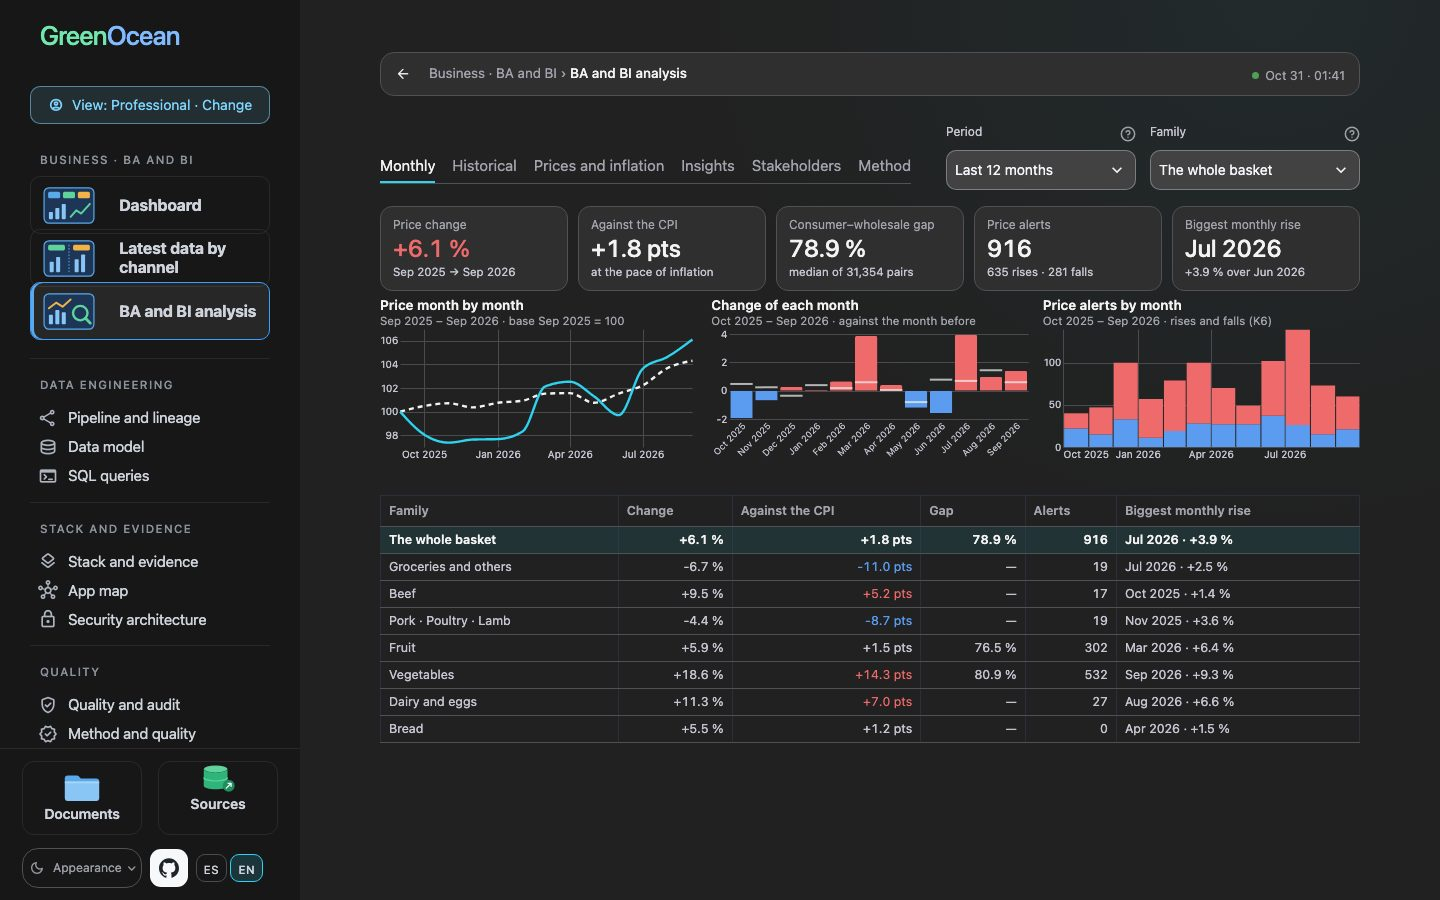
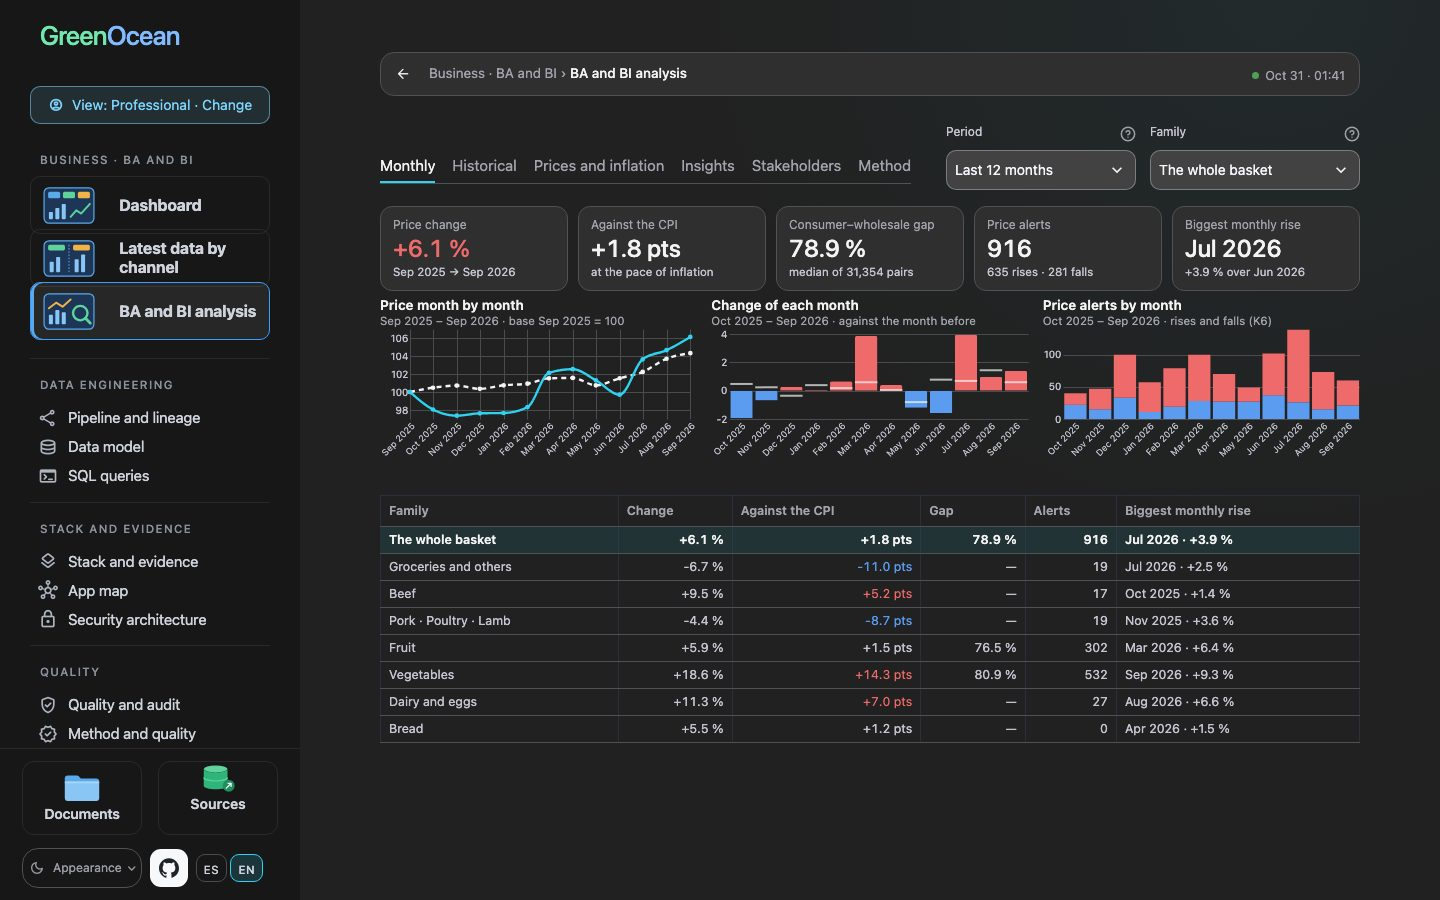
fix(analisis): cada mes de un período tiene su punto y su etiqueta en el eje (D-457)
«Precio mes a mes» dibujaba un punto por mes, pero Vega rotulaba uno de
cada tres meses. Ahora los tres gráficos de «Mensual» nombran cada mes
con su año, y el precio marca cada mes con un punto. El borde del eje
va en hora local, como los datos: escrito como texto se leía en UTC, el
día anterior en Chile, y el último mes quedaba sin etiqueta.

Changed region(s): [[0.7188, 0.3733, 0.9688, 0.5289], [0.25, 0.3733, 0.5, 0.5289]]

diff --git a/bi/ba_trends.py b/bi/ba_trends.py
@@ -166,12 +166,19 @@ def add_month_key(frame: pd.DataFrame) -> pd.DataFrame:
     return frame.assign(month_key=stamp.dt.year * 100 + stamp.dt.month)
 
 
-def month_domain(start: tuple[int, int], end: tuple[int, int], counted: bool = False) -> list[str]:
-    """The time axis of a chart: the whole period, so every chart starts at its start month even where it has no data
-    (no alert can be raised in the first 12 weeks of the history). counted: from the first month whose weeks count."""
-    first = first_counted(start, end) if counted else start
-    last = next_month(end) if counted else end  # bars fill their month, so the axis runs to the end of the last one
-    return [f"{first[0]}-{first[1]:02d}-01", f"{last[0]}-{last[1]:02d}-01"]
+def months_between(first: tuple[int, int], last: tuple[int, int]) -> list[tuple[int, int]]:
+    """Every month from first to last, both included."""
+    months = [first]
+    while months[-1] < last:
+        months.append(next_month(months[-1]))
+    return months
+
+
+def month_domain(start: tuple[int, int], end: tuple[int, int]) -> list[Any]:
+    """The time axis of the price: the whole period, from its start month, even where it has no data. Given in local
+    time, like the data: a date written as text («2026-09-01») is read as midnight UTC, the day before in Chile, and
+    the last month fell outside the axis without its label (D-457)."""
+    return [alt.DateTime(year=year, month=month, date=1) for year, month in (start, end)]
 
 
 def within(frame: pd.DataFrame, start: tuple[int, int], end: tuple[int, int], family: str) -> pd.DataFrame:
@@ -209,15 +216,12 @@ def monthly_changes(rows: pd.DataFrame, family: str, start: tuple[int, int], end
     """The change of each month of a period against the month before, for the family and for the food IPC, in %. The
     months are those after the start, so chained together they give the change of the whole period; a month without
     an index stays empty, never filled."""
-    months = [start]
-    while months[-1] < end:
-        months.append(next_month(months[-1]))
     key = rows["year"] * 100 + rows["month"]
     panel = rows[
         rows["product_group"].isin([family, IPC]) & key.between(start[0] * 100 + start[1], end[0] * 100 + end[1])
     ]
     wide = panel.pivot_table(index=["year", "month"], columns="product_group", values="index")
-    wide = wide.reindex(pd.MultiIndex.from_tuples(months, names=["year", "month"]))
+    wide = wide.reindex(pd.MultiIndex.from_tuples(months_between(start, end), names=["year", "month"]))
     changed = (wide / wide.shift(1) - 1).mul(100).iloc[1:]
     result = pd.DataFrame(
         {
@@ -675,6 +679,16 @@ def sized(chart: Any, width: Any, height: int, mode: str) -> Any:
     return charts.apply_chart_style(chart.properties(width=width, height=height), mode)
 
 
+def label_size(height: int, small: int = 10) -> int:
+    """The letters of an axis: larger in the enlarged chart."""
+    return small if height < 200 else small + 2
+
+
+def month_axis(height: int, **extra: Any) -> Any:
+    """An axis with every month of the period named with its year, «oct 2025», slanted so that none is left out."""
+    return alt.Axis(labelAngle=-45, labelFontSize=label_size(height, 9), labelOverlap=False, **extra)
+
+
 def trend_chart(
     rows: pd.DataFrame,
     family: str,
@@ -698,31 +712,32 @@ def trend_chart(
     )
     color = inflation_view.FAMILY_COLORS.get(family, palette["accent"])
     several_years = end[0] - start[0] > 2
-    chart = (
-        alt.Chart(panel)
-        .mark_line(interpolate="monotone", strokeWidth=2.4)
-        .encode(
-            x=alt.X(
-                "month_start:T",
-                title=None,
-                scale=alt.Scale(domain=month_domain(start, end)),
-                axis=alt.Axis(format="%Y" if several_years else "%b %Y", tickCount=6, labelFontSize=10),
+    if several_years:
+        line = alt.Chart(panel).mark_line(interpolate="monotone", strokeWidth=2.4)
+        axis = alt.Axis(format="%Y", tickCount={"interval": "year", "step": 1}, labelFontSize=label_size(height))
+    else:  # D-457: each month is a point, and each point has its month on the axis
+        dot = alt.OverlayMarkDef(filled=True, size=22 if height < 200 else 40)
+        line = alt.Chart(panel).mark_line(interpolate="monotone", strokeWidth=2.4, point=dot)
+        axis = month_axis(height, format="%b %Y", tickCount={"interval": "month", "step": 1})
+    chart = line.encode(
+        x=alt.X("month_start:T", title=None, scale=alt.Scale(domain=month_domain(start, end)), axis=axis),
+        y=alt.Y(
+            "value:Q",
+            title=None,
+            scale=alt.Scale(zero=False),
+            axis=alt.Axis(labelFontSize=label_size(height), tickCount=4),
+        ),
+        color=alt.Color("serie:N", scale=alt.Scale(domain=names, range=[color, palette["strong_text"]]), legend=None),
+        strokeDash=alt.StrokeDash("serie:N", scale=alt.Scale(domain=names, range=[[1, 0], [5, 4]]), legend=None),
+        tooltip=[
+            alt.Tooltip("serie:N", title=say("Serie", "Series")),
+            alt.Tooltip("month_start:T", title=say("Mes", "Month"), format="%b %Y"),
+            alt.Tooltip(
+                "value:Q",
+                title=say(f"Índice ({month_label(start)} = 100)", f"Index ({month_label(start)} = 100)"),
+                format=",.1f",
             ),
-            y=alt.Y("value:Q", title=None, scale=alt.Scale(zero=False), axis=alt.Axis(labelFontSize=10, tickCount=4)),
-            color=alt.Color(
-                "serie:N", scale=alt.Scale(domain=names, range=[color, palette["strong_text"]]), legend=None
-            ),
-            strokeDash=alt.StrokeDash("serie:N", scale=alt.Scale(domain=names, range=[[1, 0], [5, 4]]), legend=None),
-            tooltip=[
-                alt.Tooltip("serie:N", title=say("Serie", "Series")),
-                alt.Tooltip("month_start:T", title=say("Mes", "Month"), format="%b %Y"),
-                alt.Tooltip(
-                    "value:Q",
-                    title=say(f"Índice ({month_label(start)} = 100)", f"Index ({month_label(start)} = 100)"),
-                    format=",.1f",
-                ),
-            ],
-        )
+        ],
     )
     return sized(chart, width, height, mode)
 
@@ -749,8 +764,8 @@ def months_chart(months: pd.DataFrame, mode: str, width: Any = "container", heig
         alt.Chart(frame)
         .mark_bar(cornerRadiusTopLeft=2, cornerRadiusTopRight=2)
         .encode(
-            x=alt.X("mes:N", sort=order, title=None, axis=alt.Axis(labelAngle=-45, labelFontSize=9)),
-            y=alt.Y("change:Q", title=None, axis=alt.Axis(labelFontSize=10, tickCount=4)),
+            x=alt.X("mes:N", sort=order, title=None, axis=month_axis(height)),
+            y=alt.Y("change:Q", title=None, axis=alt.Axis(labelFontSize=label_size(height), tickCount=4)),
             color=alt.Color(
                 "tone:N", scale=alt.Scale(domain=[rose, fell], range=[palette["rise"], palette["fall"]]), legend=None
             ),
@@ -773,19 +788,21 @@ def alerts_chart(
     width: Any = "container",
     height: int = 150,
 ) -> Any:
-    """The K6 alerts of each month, rises over falls, on the whole period's axis."""
+    """The K6 alerts of each month, rises over falls. The axis names every month of the period, also those without an
+    alert: no alert can be raised in the first 12 weeks of the history, so 2022 starts with three empty months."""
     palette = charts.get_palette(mode)
     rises, falls = say("Subidas", "Rises"), say("Bajadas", "Falls")
+    order = [month_label(pair) for pair in months_between(first_counted(start, end), end)]
     if alert_rows.empty:
-        frame = pd.DataFrame(columns=["month_start", "kind", "alerts"])
+        frame = pd.DataFrame(columns=["mes", "kind", "alerts"])
     else:
-        stamp = pd.to_datetime(alert_rows["week_start"])
+        keys = alert_rows["month_key"] if "month_key" in alert_rows.columns else add_month_key(alert_rows)["month_key"]
         frame = (
             alert_rows.assign(
-                month_start=stamp.dt.to_period("M").dt.to_timestamp(),
+                mes=[month_label((int(key) // 100, int(key) % 100)) for key in keys],
                 kind=[rises if value > 0 else falls for value in alert_rows["variation"]],
             )
-            .groupby(["month_start", "kind"], as_index=False)
+            .groupby(["mes", "kind"], as_index=False)
             .size()
             .rename(columns={"size": "alerts"})
         )
@@ -793,19 +810,13 @@ def alerts_chart(
         alt.Chart(frame)
         .mark_bar()
         .encode(
-            x=alt.X(
-                "month_start:T",
-                timeUnit="yearmonth",
-                title=None,
-                scale=alt.Scale(domain=month_domain(start, end, counted=True)),
-                axis=alt.Axis(format="%b %Y", tickCount=6, labelFontSize=10),
-            ),
-            y=alt.Y("alerts:Q", title=None, stack="zero", axis=alt.Axis(labelFontSize=10, tickCount=4)),
+            x=alt.X("mes:N", title=None, scale=alt.Scale(domain=order), axis=month_axis(height)),
+            y=alt.Y("alerts:Q", title=None, stack="zero", axis=alt.Axis(labelFontSize=label_size(height), tickCount=4)),
             color=alt.Color(
                 "kind:N", scale=alt.Scale(domain=[rises, falls], range=[palette["rise"], palette["fall"]]), legend=None
             ),
             tooltip=[
-                alt.Tooltip("month_start:T", title=say("Mes", "Month"), format="%b %Y"),
+                alt.Tooltip("mes:N", title=say("Mes", "Month")),
                 alt.Tooltip("kind:N", title=say("Tipo", "Kind")),
                 alt.Tooltip("alerts:Q", title=say("Alertas", "Alerts")),
             ],
@@ -831,8 +842,8 @@ def years_chart(years: pd.DataFrame, mode: str, width: Any = "container", height
         alt.Chart(frame)
         .mark_bar(cornerRadiusTopLeft=3, cornerRadiusTopRight=3)
         .encode(
-            x=alt.X("year:N", title=None, axis=alt.Axis(labelAngle=0, labelFontSize=10)),
-            y=alt.Y("change:Q", title=None, axis=alt.Axis(labelFontSize=10, tickCount=4)),
+            x=alt.X("year:N", title=None, axis=alt.Axis(labelAngle=0, labelFontSize=label_size(height))),
+            y=alt.Y("change:Q", title=None, axis=alt.Axis(labelFontSize=label_size(height), tickCount=4)),
             color=alt.Color(
                 "tone:N", scale=alt.Scale(domain=[rose, fell], range=[palette["rise"], palette["fall"]]), legend=None
             ),
@@ -860,12 +871,14 @@ def season_chart(profile: pd.DataFrame, mode: str, width: Any = "container", hei
         alt.Chart(frame)
         .mark_bar(cornerRadiusTopLeft=3, cornerRadiusTopRight=3)
         .encode(
-            x=alt.X("mes:N", sort=order, title=None, axis=alt.Axis(labelAngle=0, labelFontSize=10)),
+            x=alt.X("mes:N", sort=order, title=None, axis=alt.Axis(labelAngle=0, labelFontSize=label_size(height))),
             y=alt.Y(
                 "change:Q",
                 title=None,
                 axis=alt.Axis(
-                    labelFontSize=10, tickCount=4, labelExpr="datum.value > 0 ? '+' + datum.label : datum.label"
+                    labelFontSize=label_size(height),
+                    tickCount=4,
+                    labelExpr="datum.value > 0 ? '+' + datum.label : datum.label",
                 ),
             ),
             color=alt.Color(

diff --git a/tests/test_ba_trends.py b/tests/test_ba_trends.py
@@ -200,15 +200,39 @@ def test_d457_every_card_and_column_explains_itself_on_hover_with_the_definition
 
 def test_d456_every_time_chart_starts_at_the_start_of_its_period():
     # The first alert can only come 12 weeks into the history (K6), so the alerts chart used to start its axis in
-    # 2023 although 2022 had alerts; the axis is now the whole period, bars filling their month.
-    assert ba_trends.month_domain((2022, 1), (2026, 9)) == ["2022-01-01", "2026-09-01"]
-    assert ba_trends.month_domain((2022, 1), (2026, 9), counted=True) == ["2022-01-01", "2026-10-01"]
-    assert ba_trends.month_domain((2025, 9), (2026, 9), counted=True) == ["2025-10-01", "2026-10-01"]
-    assert ba_trends.month_domain((2024, 12), (2025, 12), counted=True) == ["2025-01-01", "2026-01-01"]
+    # 2023 although 2022 had alerts; the axis is now the whole period, also its months without an alert.
+    assert [day.to_dict() for day in ba_trends.month_domain((2022, 1), (2026, 9))] == [
+        {"year": 2022, "month": 1, "date": 1},
+        {"year": 2026, "month": 9, "date": 1},
+    ]  # local time, like the data: a text date is midnight UTC, the day before in Chile (D-457)
+    assert ba_trends.months_between((2025, 11), (2026, 2)) == [(2025, 11), (2025, 12), (2026, 1), (2026, 2)]
     frame = pd.DataFrame({"week_start": ["2022-04-04"], "variation": [0.2]})
-    spec = ba_trends.alerts_chart(frame, (2022, 1), (2026, 9), "Vantablack").to_dict()
-    assert spec["encoding"]["x"]["scale"]["domain"] == ["2022-01-01", "2026-10-01"]
-    assert spec["encoding"]["x"]["timeUnit"] == "yearmonth"
+    spec = ba_trends.alerts_chart(frame, (2022, 1), (2022, 12), "Vantablack").to_dict()
+    assert spec["encoding"]["x"]["scale"]["domain"] == [f"{month} 2022" for month in weeks.MONTHS]
+    last_year = ba_trends.alerts_chart(frame.iloc[:0], (2025, 9), (2026, 9), "Vantablack").to_dict()
+    assert (
+        last_year["encoding"]["x"]["scale"]["domain"][0] == "oct 2025"
+        and len(last_year["encoding"]["x"]["scale"]["domain"]) == 12
+    )
+
+
+def test_d457_every_month_of_a_period_has_its_point_and_its_label():
+    # «Precio mes a mes» had a point per month but named one month in three (Vega leaves out labels that would
+    # touch), so it was not clear which months it drew: each month now has its dot and its label, with its year.
+    months = ba_trends.months_between((2025, 9), (2026, 9))
+    rows = pd.DataFrame(
+        [(family, year, month, 100.0 + index) for index, (year, month) in enumerate(months) for family in ("Pan", IPC)],
+        columns=["product_group", "year", "month", "index"],
+    )
+    rows["month_start"] = pd.to_datetime(dict(year=rows["year"], month=rows["month"], day=1))
+    spec = ba_trends.trend_chart(rows, "Pan", (2025, 9), (2026, 9), "Vantablack").to_dict()
+    axis = spec["encoding"]["x"]["axis"]
+    assert axis["tickCount"] == {"interval": "month", "step": 1} and axis["format"] == "%b %Y"
+    assert axis["labelOverlap"] is False and spec["mark"]["point"]["filled"] is True
+    whole = ba_trends.trend_chart(rows, "Pan", (2022, 1), (2026, 9), "Vantablack").to_dict()
+    assert whole["encoding"]["x"]["axis"]["format"] == "%Y" and "point" not in whole["mark"]  # «Histórico»: years
+    bars = ba_trends.months_chart(ba_trends.monthly_changes(rows, "Pan", (2025, 9), (2026, 9)), "Vantablack").to_dict()
+    assert bars["layer"][0]["encoding"]["x"]["axis"]["labelOverlap"] is False  # every month of the change, too
 
 
 def test_d456_the_season_says_which_years_each_calendar_month_gathers():

diff --git a/docs/DECISIONES.md b/docs/DECISIONES.md
@@ -3676,6 +3676,7 @@ Desde D-279, el plan de capacidad y escalabilidad es un documento propio: `docs/
     - La tabla por familia.
   - **Cada gráfico dice sus meses:** «sep 2025 – sep 2026 · base sep 2025 = 100», «oct 2025 – sep 2026 · frente al mes anterior», «2022–2026 · de diciembre a diciembre». Cada tarjeta dice los dos meses que compara («sep 2025 → sep 2026»).
   - **Zoom al pasar el cursor:** el gráfico se agranda en una ventana de 750 px como máximo (o 72 % de la pantalla), dentro de la página, y dice «Qué mide» y «Qué se deduce». El texto se calcula con las mismas cifras que dibuja; nada se escribe a mano. Las definiciones de K1, K6 y del índice frente al IPC son las de «Método» (`overview.KPIS` y `alerts.describe_rule`, D-385).
+  - **Eje de los meses** (lo preguntó el autor): «Precio mes a mes» tenía un punto por mes, pero Vega, la librería de los gráficos, rotulaba uno de cada tres meses para que las etiquetas no se tocaran. Ahora cada mes tiene su punto y su etiqueta con el año, inclinada, en los tres gráficos de «Mensual»; «Histórico» rotula cada año. Además, el borde del eje se escribía como texto («2026-09-01»), que el navegador lee como medianoche UTC, el día anterior en Chile: el último mes quedaba fuera del eje y sin etiqueta. Ahora el borde va en hora local, como los datos. Los valores al pasar el cursor ya eran los correctos (sep 2025 = 100,0).
 - **Cómo se mide un cambio:**
   - Los últimos 12 meses, desde el mismo mes del año anterior; un año, de diciembre a diciembre, como el IPC del INE. 2022 empieza en enero, el mes base, porque no hay índice antes, y el año en curso llega al último mes publicado. El gráfico de cada año lo dice al pasar el cursor («desde ene», «hasta sep»).
   - Un mes sin índice queda vacío; nunca se rellena.
@@ -3688,6 +3689,6 @@ Desde D-279, el plan de capacidad y escalabilidad es un documento propio: `docs/
 - **Medición (Playwright):** las dos pestañas caben sin desplazar la página a 1440 × 900 y 1440 × 790, en español e inglés. El zoom queda dentro de la página, en tema oscuro y claro. A 1280 × 800, «Mensual» se desplaza 50 px: los filtros bajan a una segunda fila bajo las seis pestañas.
 - **Documentos:** PRD 3.23 (3.2 y 7), SAD 3.16 (los escenarios clave), Glosario 2.9, CLAUDE.md, README y la captura M-3, en los dos idiomas.
 - **Pruebas:**
-  - `tests/test_ba_trends.py`: los cambios de cada mes encadenados dan el del período; los de cada año, el de enero 2022; las cifras coinciden con «Precios e inflación»; cada frase del zoom tiene las cifras que explica; cada tarjeta usa las definiciones de «Método»; un mes sin índice queda vacío; cada pestaña dibuja sus tres gráficos con su versión grande; la dirección de «Tendencias» abre «Mensual».
+  - `tests/test_ba_trends.py`: los cambios de cada mes encadenados dan el del período; los de cada año, el de enero 2022; las cifras coinciden con «Precios e inflación»; cada frase del zoom tiene las cifras que explica; cada tarjeta usa las definiciones de «Método»; un mes sin índice queda vacío; cada pestaña dibuja sus tres gráficos con su versión grande; cada mes de un período tiene su punto y su etiqueta (`test_d457_every_month_of_a_period_has_its_point_and_its_label`); la dirección de «Tendencias» abre «Mensual».
   - `tests/i18n_audit.py`: la auditoría de inglés recorre cada pestaña de «Análisis BA y BI», y «Mensual» con 2022 y una familia.
   - Las del menú y de los documentos, con las seis pestañas.
